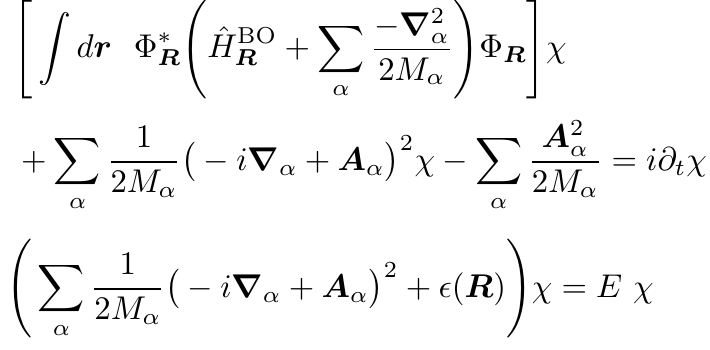
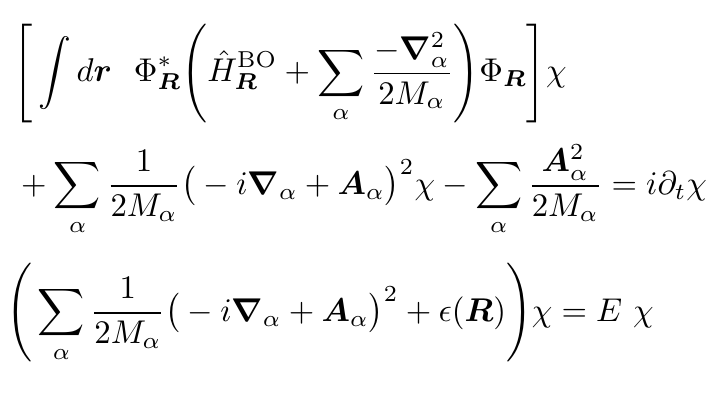
fix img project 4

diff --git a/_projects/4_project.md b/_projects/4_project.md
@@ -2,7 +2,7 @@
 layout: page
 title: Exact Factorization of the Nuclear Electronic Wavefunction 
 description: Numerical method based on the exact single product Ansatz
-img: ExactFactorizationEqs.png
+img: assets/img/ExactFactorizationEqs.png
 importance: 4
 category: research
 ---
